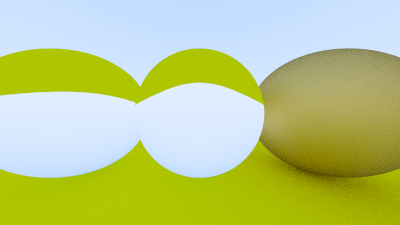
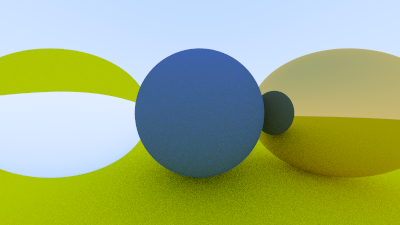
refraction

diff --git a/src/material.rs b/src/material.rs
@@ -1,4 +1,7 @@
-use crate::{vec3, Color, Float, HitRecord, Ray, Vec3, random};
+use crate::{
+    vec3,
+    Color, HitRecord, Ray, Float, Vec3,
+};
 
 pub trait Material {
     fn scatter(&self, ray_in: &Ray, hit_rec: &HitRecord) -> Option<MaterialRecord>;
@@ -23,9 +26,9 @@ impl Material for Lambertian {
     fn scatter(&self, _ray_in: &Ray, hit_rec: &HitRecord) -> Option<MaterialRecord> {
         let scatter_direction = hit_rec.normal + vec3::random_unit_vector();
 
-        let scatter_direction = match scatter_direction.near_zero() {
+        let scatter_direction = match scatter_direction.near_zero(){
             true => hit_rec.normal,
-            false => scatter_direction,
+            false =>scatter_direction,
         };
 
         let scattered = Ray::new(hit_rec.p, scatter_direction);
@@ -39,21 +42,15 @@ impl Material for Lambertian {
 
 pub struct Metal {
     albedo: Color,
-    fuzzy: Float,
+    fuzzy:Float,
 }
 
 impl Metal {
     pub fn new(color: Color) -> Metal {
-        Metal {
-            albedo: color,
-            fuzzy: 0.0,
-        }
+        Metal { albedo: color, fuzzy:0.0 }
     }
-    pub fn with_fuzzy(color: Color, fuzzy: Float) -> Metal {
-        Metal {
-            albedo: color,
-            fuzzy,
-        }
+    pub fn with_fuzzy(color:Color,fuzzy:Float)-> Metal{
+        Metal{albedo:color,fuzzy} 
     }
 }
 
@@ -62,7 +59,7 @@ impl Material for Metal {
         let unit = vec3::unit_vector(&ray_in.direction);
         let reflected = vec3::reflect(&unit, &hit_rec.normal);
 
-        let ray_direction = reflected + self.fuzzy * vec3::random_in_init_sphere();
+        let ray_direction = reflected + self.fuzzy*vec3::random_in_init_sphere();
 
         match vec3::dot(&ray_direction, &hit_rec.normal) > 0.0 {
             true => Some(MaterialRecord {
@@ -74,59 +71,50 @@ impl Material for Metal {
     }
 }
 
-pub struct Dielectric {
-    index_of_refraction: Float,
+
+pub struct Dielectric{
+    index_of_refraction:Float
 }
 
-impl Dielectric {
-    pub fn new(index_of_refraction: Float) -> Dielectric {
-        Dielectric {
-            index_of_refraction,
-        }
+impl Dielectric{
+    pub fn new(index_of_refraction:Float)->Dielectric{
+        Dielectric{index_of_refraction}
     }
+}
 
-    fn shlicks_approx(cosine:Float,refraction_index:Float)->Float{
-       let r_0 = (1.0-refraction_index)/ (1.0 + refraction_index); 
-       let r_0 = r_0*r_0;
 
-       r_0 + (1.0-r_0)*Float::powi(1.0-cosine,5)
-    }
+fn refract(uv:&Vec3,n:&Vec3,etai_over_etat:Float)->Vec3{
+    let uv = *uv;
+    let uv_2 = -uv; 
+    let cost_theta = Float::min(vec3::dot(&uv_2,n),1.0);
+    
+    let r_out_perp = etai_over_etat*(uv + cost_theta*n);
+    let r_out_parallel = -Float::sqrt(Float::abs(1.0 - r_out_perp.lenght_squared()))*n;
+
+    r_out_perp + r_out_parallel
+
 }
 
 impl Material for Dielectric {
     fn scatter(&self, ray_in: &Ray, hit_rec: &HitRecord) -> Option<MaterialRecord> {
-        let white = Color::new(1.0, 1.0, 1.0);
 
-        let refraction_radio = match hit_rec.front_face {
-            true => 1.0 / self.index_of_refraction,
+        let white = Color::new(1.0,1.0,1.0);
+
+        let refraction_radio =  match hit_rec.front_face{
+            true => 1.0/self.index_of_refraction,
             false => self.index_of_refraction,
         };
 
         let unit_direction = vec3::unit_vector(&ray_in.direction);
+        
+        let refracted = refract(&unit_direction,&hit_rec.normal,refraction_radio);
 
-        let unit_direction_2 = -unit_direction;
-        let cost_theta = Float::min(vec3::dot(&unit_direction_2, &hit_rec.normal), 1.0);
-        let sin_theta = Float::sqrt(1.0 - cost_theta * cost_theta);
+        let scattered = Ray::new(hit_rec.p,refracted);
 
-        let can_refract = refraction_radio * sin_theta <= 1.0;
-        let reflactance = Self::shlicks_approx(cost_theta,refraction_radio);
-        let direction = match can_refract && reflactance < random(){
-            true => {
-                // refract
-                let r_out_perp = refraction_radio * (unit_direction + cost_theta * hit_rec.normal);
-                let r_out_parallel =
-                    -Float::sqrt(Float::abs(1.0 - r_out_perp.lenght_squared())) * hit_rec.normal;
+        Some(MaterialRecord{attenuation:white,scattered})
 
-                r_out_perp + r_out_parallel
-            }
-            false => vec3::reflect(&unit_direction,&hit_rec.normal),
-        };
 
-        let scattered = Ray::new(hit_rec.p, direction);
-
-        Some(MaterialRecord {
-            attenuation: white,
-            scattered,
-        })
     }
 }
+
+

diff --git a/examples/refraction.rs b/examples/refraction.rs
@@ -62,8 +62,7 @@ fn main() {
     let world = vec![
         Sphere::new(Point3::new(0.0, -100.5, -1.0), 100.0, mateiral_ground),
         Sphere::new(Point3::new(0.0, 0.0, -1.0), 0.5, mateiral_center),
-        Sphere::new(Point3::new(-1.0, 0.0, -1.0), 0.5, mateiral_left.clone()),
-        Sphere::new(Point3::new(-1.0, 0.0, -1.0), -0.4, mateiral_left),
+        Sphere::new(Point3::new(-1.0, 0.0, -1.0), 0.5, mateiral_left),
         Sphere::new(Point3::new(1.0, 0.0, -1.0), 0.5, mateiral_right),
     ];
 
@@ -98,5 +97,5 @@ fn main() {
     }
     progress_bar.finish_with_message("done");
 
-    imgbuf.save("images/hollow_glass_sphere.png").unwrap();
+    imgbuf.save("images/refraction.png").unwrap();
 }
